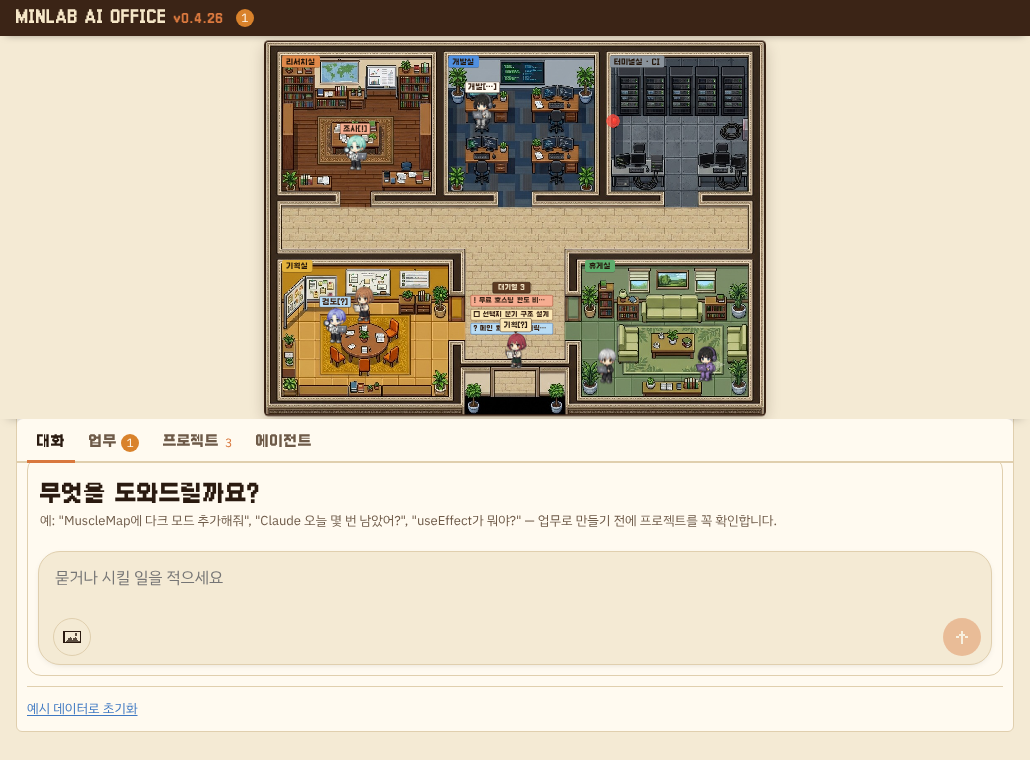
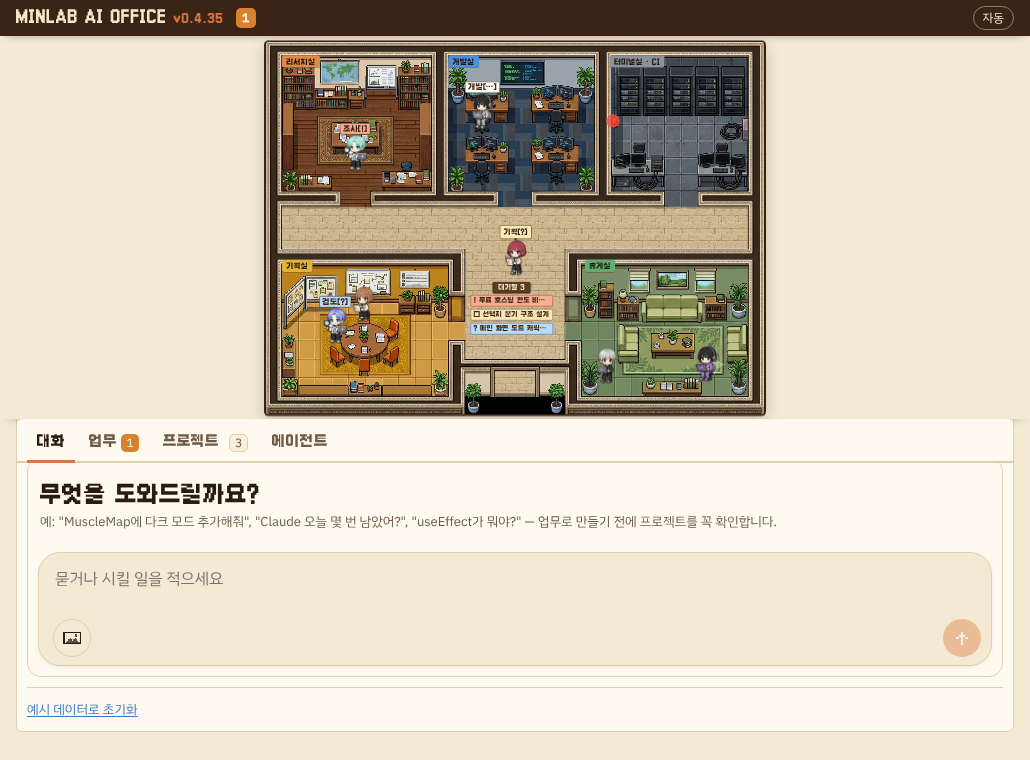
feat: 에이전트 카드는 말풍선 표시 하나만, 짧은 페이지 빈 공간 없앰 (v0.4.35) (#95)
- 에이전트 카드의 활동 표시·'업무 N'을 빼고 사무실 말풍선과 같은 표시 하나만 보인다
  (! > ? > … > 휴식). 사무실과 카드가 같은 규칙(src/office/marks.ts)을 쓴다.
- 짧은 페이지에서 아래 빈 공간이 생기던 최소 높이를 없앴다. 대신 사무실이 줄어든 뒤에도
  충분히 내려갈 수 있을 때만 작은 사무실로 바꾸고, 그때만 사무실·탭을 위에 고정한다.
- 인수인계에 임시 숫자(하루 상한·동시 실행) 목록을 '나중에 확정'으로 적었다.

Claude-Session: https://claude.ai/code/session_01VDivpqgMUaCMRpdy4wQzAT

diff --git a/src/components/AgentPanel.tsx b/src/components/AgentPanel.tsx
@@ -1,3 +1,6 @@
+import { speechFor } from '../office/speech';
+import { markFor, type AgentMark } from '../office/marks';
+import { buildScene } from '../office/scene';
 import { useState } from 'react';
 import type { LinearProbe } from '../data/store';
 import { ADAPTER_STATE_LABEL, ADAPTERS, geminiAdapter } from '../domain/adapters';
@@ -9,11 +12,12 @@ import type { AgentAssignment } from '../domain/workflow-types';
 import { remainingToday, runsToday } from '../domain/usage';
 import type { AgentId, AiCall, Snapshot, Task, UsageRun } from '../domain/types';
 import { STATUS_LABEL } from '../domain/types';
-import { ACTIVITY_LABEL, buildScene } from '../office/scene';
 import { spriteFor } from '../office/sprites';
 
 interface Props {
   agentId: AgentId;
+  /** 사무실 말풍선과 같은 표시(없으면 휴식) */
+  speech?: AgentMark;
   tasks: Task[];
   usage: UsageRun[];
   assignments: AgentAssignment[];
@@ -78,9 +82,18 @@ function LinearCheck({ onProbe }: { onProbe: () => Promise<LinearProbe> }) {
   );
 }
 
-export function AgentPanel({ agentId, tasks, usage, assignments, onOpenTask, aiCalls = [], serverMode = false, quota, limit, onLinearProbe }: Props) {
+/** 에이전트 상태는 사무실 말풍선과 같은 표시 하나만(v0.4.35): ! 막힘 > ? 내 차례 > … 일하는 중 > 휴식 */
+function SpeechMark({ speech }: { speech?: AgentMark }) {
+  if (!speech) return <span className="pill pill-mark pill-mark-rest">휴식</span>;
+  return (
+    <span className={`pill pill-mark pill-mark-${speech.kind}`} title={speech.label}>
+      {speech.text}
+    </span>
+  );
+}
+
+export function AgentPanel({ agentId, tasks, usage, onOpenTask, aiCalls = [], serverMode = false, quota, limit, onLinearProbe, speech }: Props) {
   const a = AGENT_BY_ID[agentId];
-  const scene = buildScene(tasks, assignments).find((s) => s.agent === agentId);
   const adapter = ADAPTER_OF[agentId] === 'gemini_vision' ? geminiAdapter(aiCalls, serverMode) : ADAPTERS.find((x) => x.agent === ADAPTER_OF[agentId]);
   const mine = tasks.filter((t) => t.assignee === agentId);
   const used = runsToday(usage, agentId);
@@ -97,7 +110,7 @@ export function AgentPanel({ agentId, tasks, usage, assignments, onOpenTask, aiC
           </p>
           <p>
             <span className="pill">{MODE_LABEL[a.mode]}</span>{' '}
-            {scene && <span className={`pill pill-act-${scene.activity}`}>{ACTIVITY_LABEL[scene.activity]}</span>}
+            <SpeechMark speech={speech} />
           </p>
         </div>
       </div>
@@ -186,7 +199,9 @@ export function AgentRoster({
   onOpenTask: (task: Task) => void;
   serverMode: boolean;
 }) {
+  const speechMap = speechFor(snap.tasks, snap.workflow);
   const scene = buildScene(snap.tasks, snap.workflow.assignments);
+  const markOf = (id: AgentId) => markFor(id, scene, speechMap);
   const ordered = selected ? [AGENT_BY_ID[selected], ...AGENTS.filter((a) => a.id !== selected)] : AGENTS;
   return (
     <div className="stack">
@@ -196,6 +211,7 @@ export function AgentRoster({
             <section key={a.id} className="agent-expanded" aria-label={`${a.name} 자세히`}>
               <AgentPanel
                 agentId={a.id}
+                speech={markOf(a.id)}
                 tasks={snap.tasks}
                 usage={snap.usage}
                 assignments={snap.workflow.assignments}
@@ -218,20 +234,17 @@ export function AgentRoster({
             </section>
           );
         }
-        const s = scene.find((x) => x.agent === a.id);
         const q = quotaFor(a.id, snap);
-        const open = snap.tasks.filter((t) => t.assignee === a.id && t.status !== 'done').length;
         return (
           <button key={a.id} type="button" className="agent-row" onClick={() => onSelect(a.id)} aria-label={`${a.name} 펼치기`}>
             <img className={`agent-row-portrait${spriteFor(a, 'stand').art ? ' is-art' : ''}`} src={spriteFor(a, 'stand').src} alt="" />
             <span className="agent-row-main">
               <b>{a.name}</b> <span className="muted small">{a.role}</span>
               <span className="agent-row-pills">
-                {s && <span className={`pill pill-act-${s.activity}`}>{ACTIVITY_LABEL[s.activity]}</span>}
+                <SpeechMark speech={markOf(a.id)} />
                 <span className={`pill pill-quota-${q.state}`} title={q.detail}>
                   {q.label}
                 </span>
-                <span className="muted small">업무 {open}</span>
               </span>
             </span>
           </button>

diff --git a/src/App.tsx b/src/App.tsx
@@ -242,26 +242,27 @@ export function App() {
   const [openCards, setOpenCards] = useState<Set<string>>(() => new Set());
   /** 다른 탭에서 대화 입력칸으로 넘기는 초안 */
   const [draft, setDraft] = useState<{ text: string; n: number } | null>(null);
-  const topIo = useRef<IntersectionObserver | null>(null);
+  // 얇은 머리·작은 사무실(v0.4.14~, v0.4.35): 켜기 = 위 머리가 화면 밖으로 나갔고, 사무실이 줄어든 뒤에도
+  // 페이지가 머리 높이 넘게 내려갈 수 있을 때(짧은 페이지에서 아래 빈 공간이 생기거나 깜빡이지 않게).
+  // 끄기 = 맨 위에 닿았을 때만.
+  const topEl = useRef<HTMLElement | null>(null);
+  const checkMini = useCallback(() => {
+    const top = topEl.current;
+    if (!top) return;
+    if (window.scrollY <= 2) return setMini(false);
+    if (top.getBoundingClientRect().bottom >= 36) return;
+    const office = document.querySelector<HTMLElement>('.stage .office');
+    const shrink = office ? office.offsetHeight / 2 : 0;
+    const room = document.documentElement.scrollHeight - window.innerHeight - shrink;
+    if (room > top.offsetHeight) setMini(true);
+  }, []);
   const topRef = useCallback((el: HTMLElement | null) => {
-    topIo.current?.disconnect();
-    topIo.current = null;
-    if (!el || typeof IntersectionObserver === 'undefined') return;
-    // 켜기: 위 머리가 화면 밖으로 나가면. 끄기: 맨 위에 닿았을 때만(아래 scroll). 작은 사무실이 되며 아래 내용이
-    // 끌어올려져 페이지가 짧아져도 켜졌다 꺼졌다 반복하지 않게 한다(v0.4.26).
-    const io = new IntersectionObserver(([e]) => {
-      if (!e.isIntersecting) setMini(true);
-    }, { rootMargin: '-36px 0px 0px 0px' });
-    io.observe(el);
-    topIo.current = io;
+    topEl.current = el;
   }, []);
   useEffect(() => {
-    const onScroll = () => {
-      if (window.scrollY <= 2) setMini(false);
-    };
-    window.addEventListener('scroll', onScroll, { passive: true });
-    return () => window.removeEventListener('scroll', onScroll);
-  }, []);
+    window.addEventListener('scroll', checkMini, { passive: true });
+    return () => window.removeEventListener('scroll', checkMini);
+  }, [checkMini]);
   const [, setMinuteTick] = useState(0);
   useEffect(() => {
     const id = window.setInterval(() => {
@@ -1208,7 +1209,7 @@ export function App() {
         <ThemeToggle tabbable={mini} />
       </div>
 
-      <main className="layout">
+      <main className={`layout${mini ? ' is-mini' : ''}`}>
         <section className={`stage${mini ? ' is-mini' : ''}`} aria-label="오피스">
           <OfficeView tasks={snap.tasks} assignments={snap.workflow.assignments} workflow={snap.workflow} selected={selected} onSelect={selectAgent} onOpenTask={showTask} />
           <p className="stage-note">

diff --git a/src/styles.css b/src/styles.css
@@ -340,6 +340,28 @@ a {
   background: rgba(246, 231, 200, 0.12);
 }
 
+/* 에이전트 상태 표시(v0.4.35): 사무실 말풍선과 같은 색 */
+.pill.pill-mark {
+  font-family: var(--font-display);
+  font-weight: 700;
+}
+.pill.pill-mark-alert {
+  background: var(--st-blocked);
+  color: var(--st-blocked-ink);
+}
+.pill.pill-mark-ask {
+  background: #d9822b;
+  color: #fffaf0;
+}
+.pill.pill-mark-busy {
+  background: var(--st-progress);
+  color: var(--st-progress-ink);
+}
+.pill.pill-mark-rest {
+  background: var(--surface-2);
+  color: var(--muted);
+}
+
 /* 얇은 머리에서는 오른쪽 끝에 작게(.topbar-mini button 기본 글꼴·여백을 덮는다) */
 .topbar-mini .theme-toggle {
   margin-left: auto;
@@ -534,8 +556,8 @@ a {
     transform: scale(0.5);
     pointer-events: auto;
   }
-  /* 줄어든 만큼 아래 내용을 끌어올려 사무실과 탭 사이 빈칸을 없앤다(v0.4.26). 페이지가 짧아져도
-     작은 사무실은 맨 위에 닿을 때만 풀리므로(App.tsx) 켜졌다 꺼졌다 반복하지 않는다. */
+  /* 줄어든 만큼 아래 내용을 끌어올려 사무실과 탭 사이 빈칸을 없앤다(v0.4.26). 페이지가 너무 짧으면
+     작은 사무실로 바꾸지 않고(App.tsx checkMini), 맨 위에 닿을 때만 풀려서 깜빡이지 않는다. */
   html {
     overflow-anchor: none;
   }
@@ -545,11 +567,11 @@ a {
   .stage.is-mini {
     margin-bottom: calc(-1 * (100vw - 32px) * 0.747 * 0.5);
   }
-  /* 내용이 짧아도 화면 높이만큼은 늘 내려갈 수 있게 해, 작은 사무실이 되자마자 맨 위로 튕겨 풀리지 않게 한다 */
-  .layout {
-    min-height: 100vh;
-    min-height: 100svh;
-    align-content: start;
+  /* 작은 사무실이 아닐 때(맨 위·짧은 페이지)는 사무실·탭을 고정하지 않는다. 큰 사무실이 위에 붙어 탭이 겹치지 않게(v0.4.35) */
+  .layout:not(.is-mini) .stage,
+  .layout:not(.is-mini) .tabs {
+    position: relative;
+    top: auto;
   }
   /* 탭은 줄어든 사무실 바로 아래에 고정(v0.4.16). 내리기 전에는 제자리에 있다. */
   .tabs {

diff --git a/src/office/marks.ts b/src/office/marks.ts
@@ -1,0 +1,35 @@
+// 캐릭터 표시 하나(v0.4.35): 사무실 말풍선·에이전트 카드가 같은 값을 쓴다.
+// 업무 단계 말풍선(speech.ts)이 있으면 그것, 없으면 업무 상태로 정한 작은 표시. 우선순위 ! > ? > … > 없음(휴식).
+import type { AgentId, Task } from '../domain/types';
+import type { AgentScene } from './scene';
+import type { Speech, SpeechKind } from './speech';
+
+/** 말풍선 단계 이름(업무 종류). 단계[표시]로 보인다: 개발[…] · 개발[!] · 검토[?] */
+export const WORK_WORD: Record<Task['type'], string> = { planning: '기획', dev: '개발', design: '디자인', prototype: '견본', research: '조사', qa: '검수' };
+export const MARK: Partial<Record<AgentScene['activity'], string>> = { working: '…', helping: '…', blocked: '!', review: '?' };
+const KIND_OF_MARK: Record<string, SpeechKind> = { '…': 'busy', '!': 'alert', '?': 'ask' };
+
+/** 업무 단계 말풍선이 없을 때의 작은 표시(업무 상태로만): 단계[표시] */
+export function badgeFor(s: AgentScene): string | undefined {
+  const mark = MARK[s.activity];
+  if (!mark || !s.task) return undefined;
+  if (s.agent === 'mina') return `접수[${s.task.status === 'blocked' ? '!' : s.task.status === 'review' ? '?' : '…'}]`;
+  return `${s.activity === 'review' ? '검토' : WORK_WORD[s.task.type]}[${mark}]`;
+}
+
+export interface AgentMark {
+  text: string;
+  kind: SpeechKind;
+  label: string;
+}
+
+/** 캐릭터 하나의 표시. 없으면 휴식 */
+export function markFor(agent: AgentId, scene: AgentScene[], speech: Map<AgentId, Speech>): AgentMark | undefined {
+  const say = speech.get(agent);
+  if (say) return { text: say.text, kind: say.kind, label: say.label };
+  const s = scene.find((x) => x.agent === agent);
+  const badge = s ? badgeFor(s) : undefined;
+  if (!badge || !s) return undefined;
+  const m = badge.match(/\[(.)\]$/)?.[1] ?? '…';
+  return { text: badge, kind: KIND_OF_MARK[m] ?? 'busy', label: s.task ? s.task.title : badge };
+}

diff --git a/src/office/OfficeView.tsx b/src/office/OfficeView.tsx
@@ -5,7 +5,8 @@ import type { AgentAssignment, WorkflowData } from '../domain/workflow-types';
 import { STATUS_LABEL } from '../domain/types';
 import { drawOffice } from './draw';
 import { H, MEMO_BOARD, pathBetween, ROOMS, W, type Point, type Spot } from './layout';
-import { ACTIVITY_LABEL, buildScene, type AgentScene } from './scene';
+import { ACTIVITY_LABEL, buildScene } from './scene';
+import { badgeFor } from './marks';
 import { speechFor } from './speech';
 import { spriteFor } from './sprites';
 import { BACKGROUND_URL } from './assets';
@@ -32,18 +33,6 @@ interface Mover {
 
 const SPEED = 22; // 논리 픽셀/초. 천천히 걷는다.
 const pct = (v: number, total: number) => `${(v / total) * 100}%`;
-
-/** 말풍선 단계 이름(업무 종류). 단계[표시]로 보인다: 개발[…] · 개발[!] · 검토[?] */
-const WORK_WORD: Record<Task['type'], string> = { planning: '기획', dev: '개발', design: '디자인', prototype: '견본', research: '조사', qa: '검수' };
-const MARK: Partial<Record<AgentScene['activity'], string>> = { working: '…', helping: '…', blocked: '!', review: '?' };
-
-/** 업무 단계 말풍선이 없을 때의 작은 표시(업무 상태로만): 단계[표시] */
-function badgeFor(s: AgentScene): string | undefined {
-  const mark = MARK[s.activity];
-  if (!mark || !s.task) return undefined;
-  if (s.agent === 'mina') return `접수[${s.task.status === 'blocked' ? '!' : s.task.status === 'review' ? '?' : '…'}]`;
-  return `${s.activity === 'review' ? '검토' : WORK_WORD[s.task.type]}[${mark}]`;
-}
 
 export function OfficeView({ tasks, assignments = [], selected, onSelect, workflow, onOpenTask }: Props) {
   const canvasRef = useRef<HTMLCanvasElement>(null);

diff --git a/docs/HANDOFF_2026-11-01.md b/docs/HANDOFF_2026-11-01.md
@@ -80,6 +80,21 @@
 - v0.4.25~0.4.28: 캐릭터가 위 머리를 덮던 문제(isolation), 작은 PC 창도 휴대폰처럼 작은 사무실(빈칸 없앰), 다크 모드 버튼(자동·밝게·어둡게), 숫자 배지 둥근 네모로 통일.
 - v0.4.29: 대화창 AI 먼저 판단(소유자 "AI가 자체 판단을 먼저"). 앱 상태·새 프로젝트만 규칙, 나머지는 Gemini가 첫 줄에 `@@질문`/`@@업무 <프로젝트>`/`@@애매`를 쓰고 질문이면 바로 답. 업무면 AI가 고른 프로젝트로 "맞아요?" 확인 뒤 접수. 대화에서 프로젝트를 골랐으면 그 프로젝트 정보(설명·저장소·열린 업무)를 Gemini에 함께 보내 그 프로젝트 질문으로 답함. `ask-gemini` 재배포 필요(옛 서버는 route를 무시해서 그냥 질문 답으로 동작).
 - v0.4.30: 다크 = 차콜(조금 더 어둡게, 소유자 고름). 머리의 내 차례 숫자를 큰 머리·얇은 머리 모두 버전 옆 같은 모양으로 두고 누르면 내 차례 목록 → 업무 카드로. 업무를 접수해도 대화는 그대로 이어가고, 그 프로젝트만 대화 칩에 연결(소유자: "연결은 프로젝트만"). 미니엉은 메모 보드 위로(대기열 가림), 아래층 방끼리는 가로 복도를 찍지 않고 바로 걷는다.
+- v0.4.31~0.4.35: 다크를 원래 갈색 쪽으로 따뜻하게, 캐릭터 그림 흰 테두리 지움, 대기열 펼치기, 머리 숫자 위치 통일·밝기 버튼(글자만, 얇은 머리에도), 에이전트 카드는 사무실 말풍선과 같은 표시 하나만(! > ? > … > 휴식, `src/office/marks.ts`), 짧은 페이지는 작은 사무실로 안 바꿈(아래 빈 공간 없앰).
+
+## 5-2. 임시 숫자 — 나중에 소유자와 확정 (소유자 2026-11-01 "나중에 확정")
+
+근거 없이 처음에 정해 둔 값이다. 실제 사용량을 보고 소유자가 정한다.
+
+| 무엇 | 지금 값 | 위치 |
+|---|---|---|
+| 앱 하루 실행 상한: Claude · Codex · Grok · Studio A · Studio B | 20 · 6 · 6 · 5 · 5 | `src/domain/agents.ts` dailyCap |
+| Gemini 질문 하루(기본/코드 최대) | 40 / 100 | `ask-gemini` (`GEMINI_DAILY_CAP`) |
+| Gemini 사진·문서 분석 하루 | 20 / 50 | `analyze-image` (`GEMINI_IMAGE_DAILY_CAP`) |
+| Gemini 기획서 초안 하루 | 20 / 50 | `draft-spec` (`GEMINI_PLAN_DAILY_CAP`) |
+| Gemini 견본 하루 | 10 / 20 | `draft-prototype` (`GEMINI_PROTOTYPE_DAILY_CAP`) |
+| Claude 루틴(PM·보조 개발·PR) 하루 최대 | 20 | `dispatch-claude*` (`CLAUDE_DAILY_CAP`) |
+| 동시에 도는 작업 수(기본) | Codex 3 · Claude 3 · Gemini 2 · 나머지 1 | `0009_concurrency_limit.sql`(에이전트 탭에서 바꿀 수 있음) |
 
 ## 6. 알려진 한계
 
